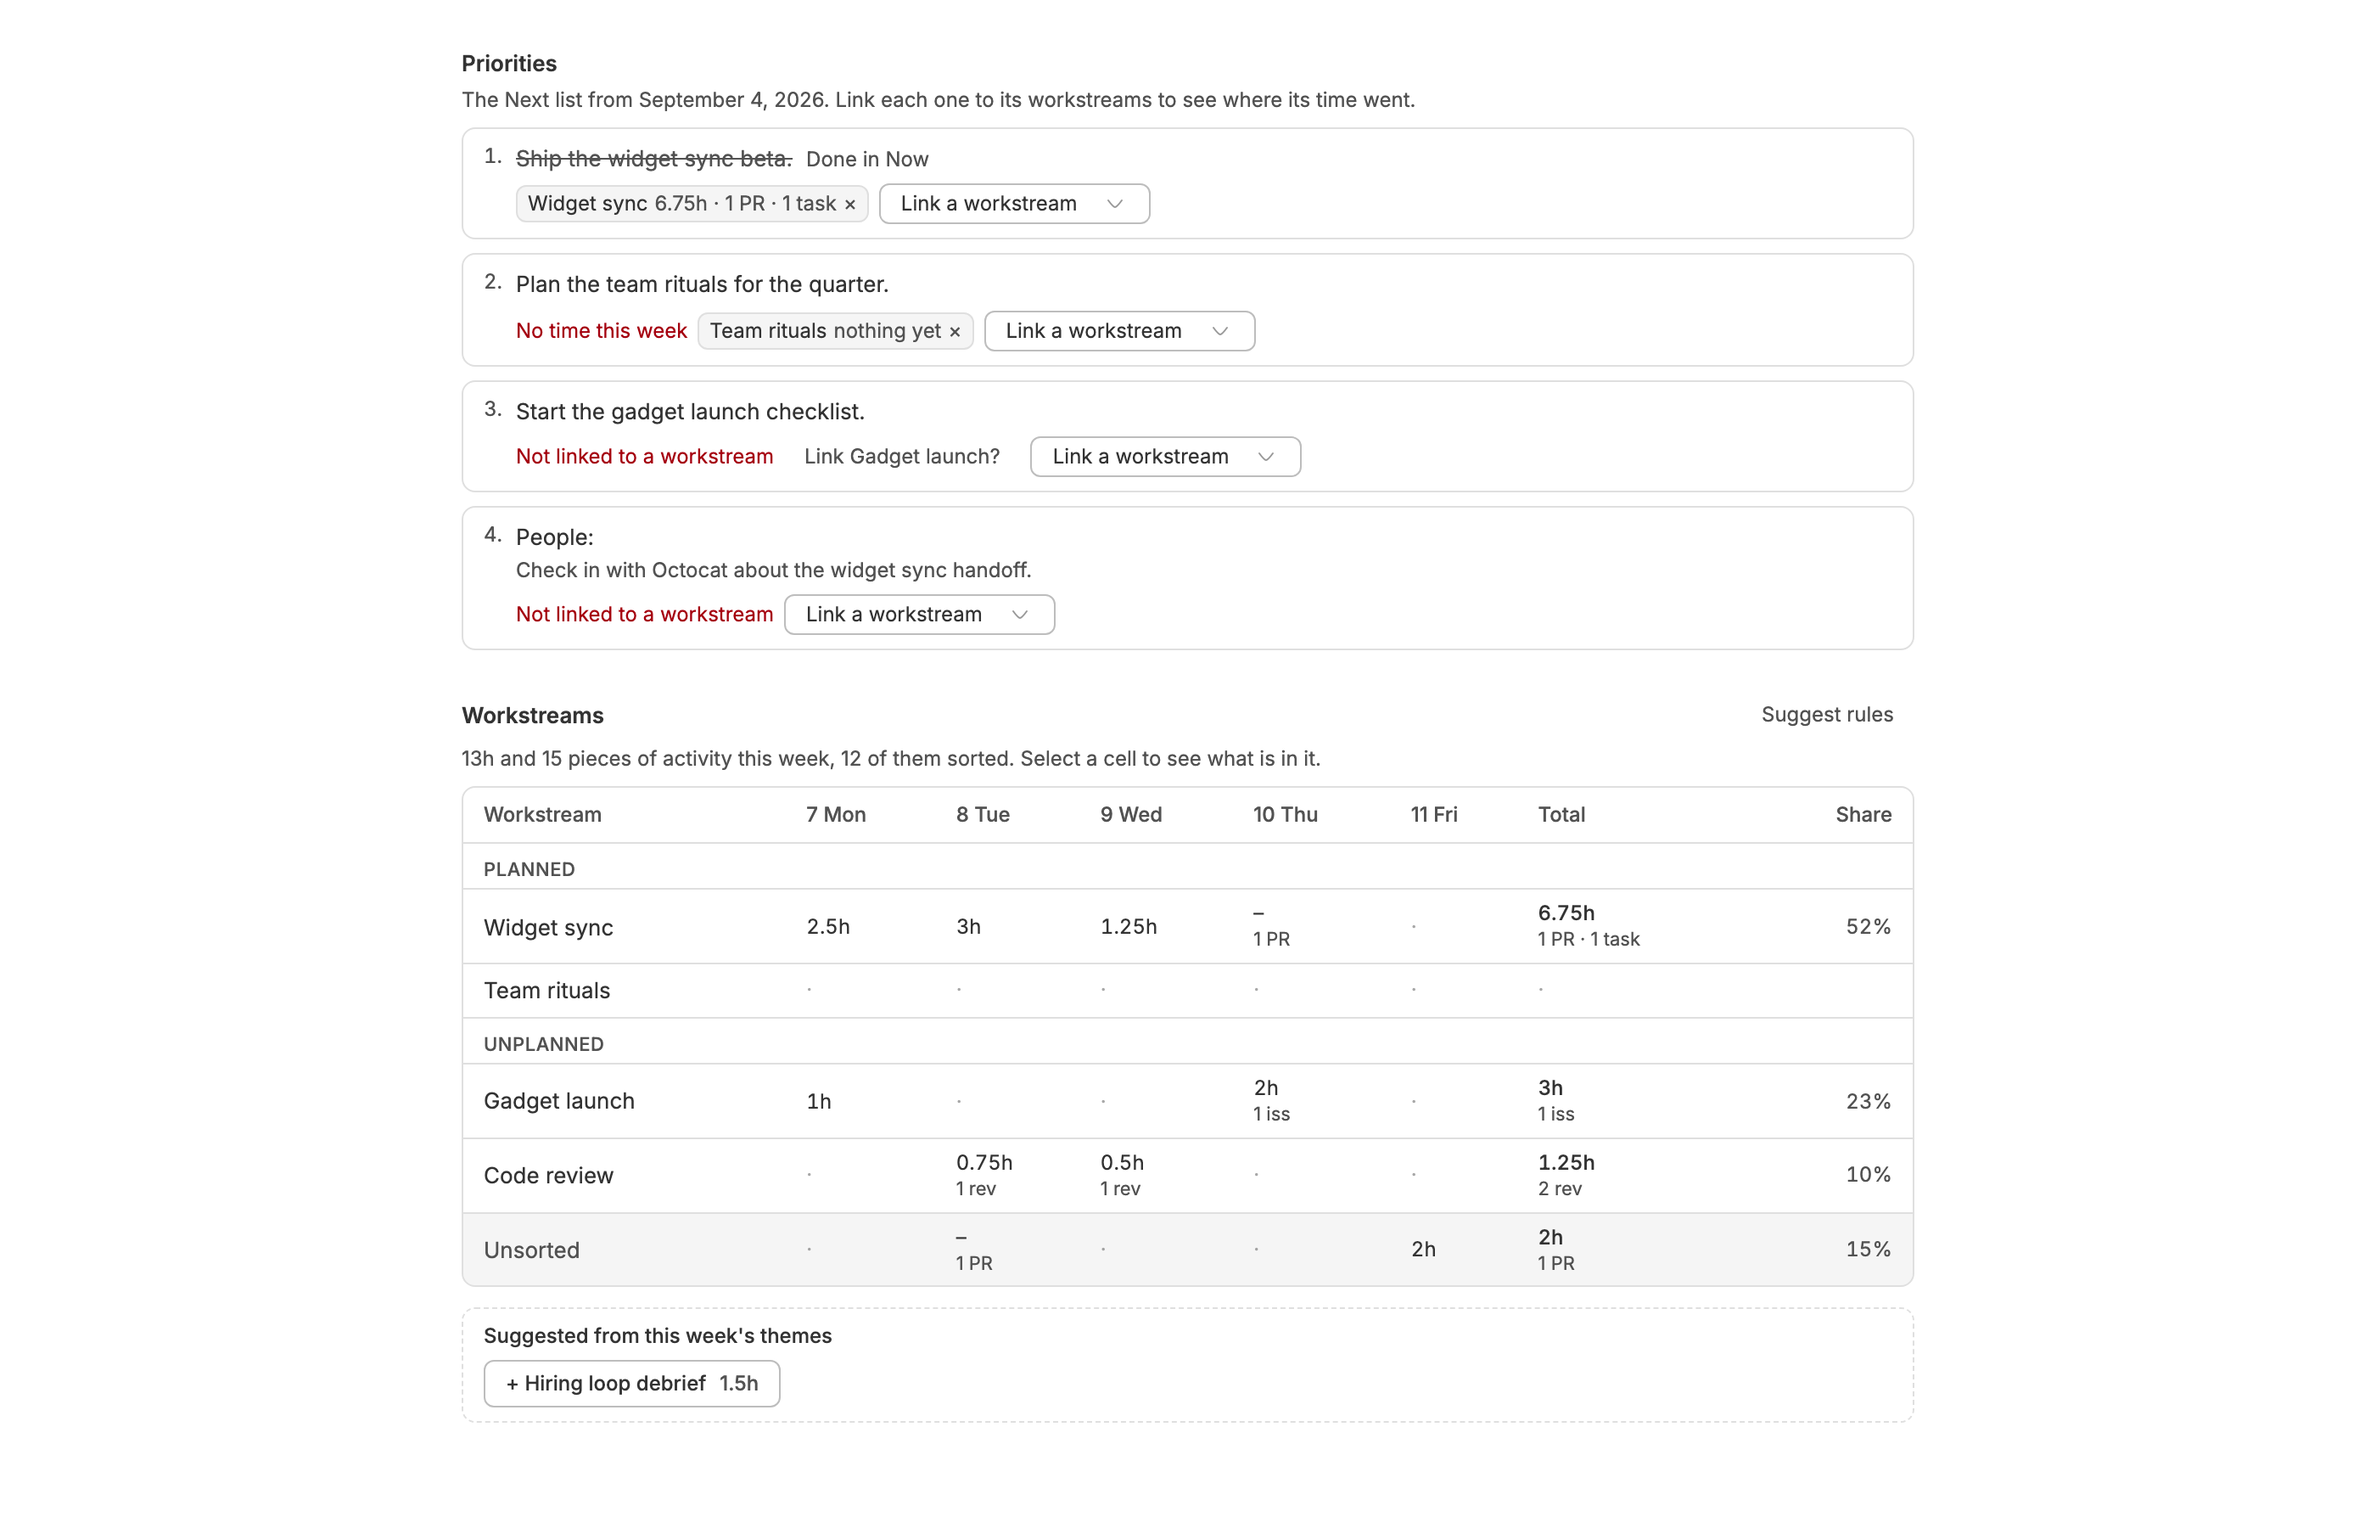
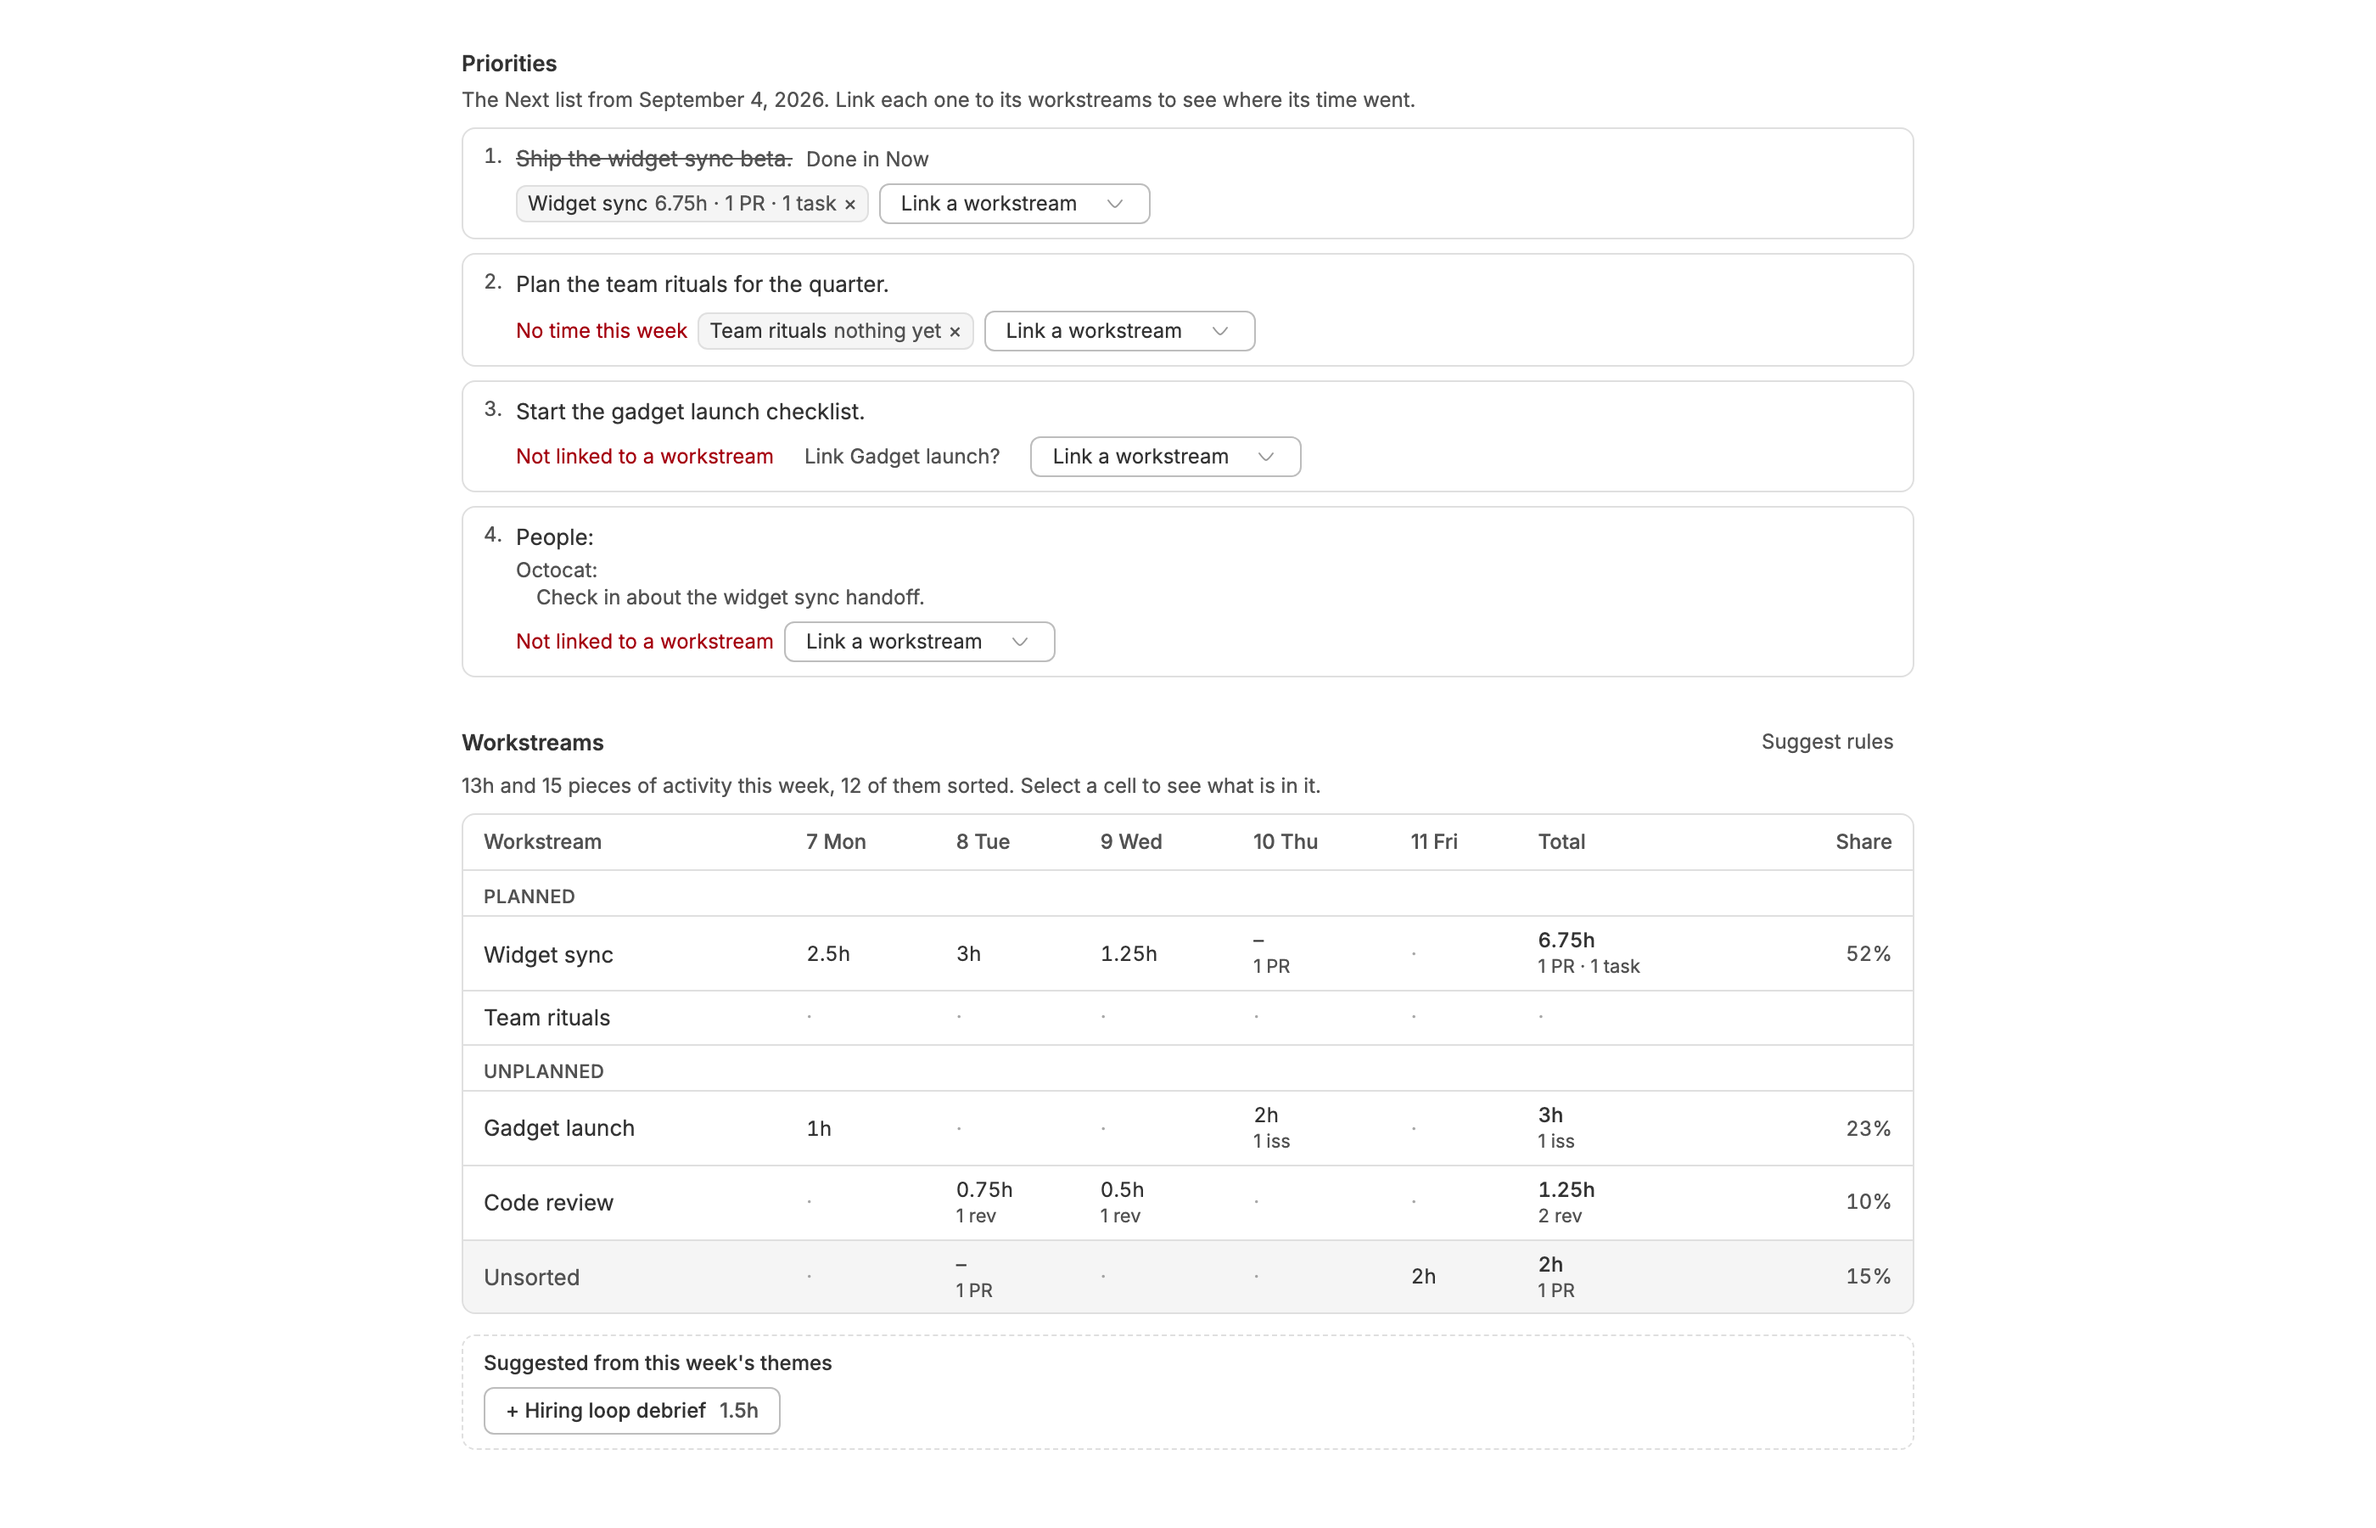
d9eb613 Keep the level of each bullet nested under a priority
danielbachhuber/bb-plugins@d9eb613d2e544d2cae3695918dc5ba4d5902fe91

Captured with uncommitted changes in the bb-plugins checkout.

diff --git a/now/README.md b/now/README.md
@@ -72,13 +72,13 @@ On a task with no due date and a deadline that has passed, Postpone moves the de
 
 ### Default
 
-The column beside Now's list: one priority checked off, one with no time yet, one not linked to any workstream, and one with nested bullets.
+The column beside Now's list: one priority checked off, one with no time yet, one not linked to any workstream, and one with bullets nested two levels deep.
 
 ![Default](priorities--default.png)
 
 ### Layout
 
-Wide, the priorities sit to the right of the list. Narrow, they move above it.
+Wide, the priorities sit to the right of the list, and dragging the column's left edge changes its width. Narrow, they move above it.
 
 ![Layout](priorities--layout.png)
 
